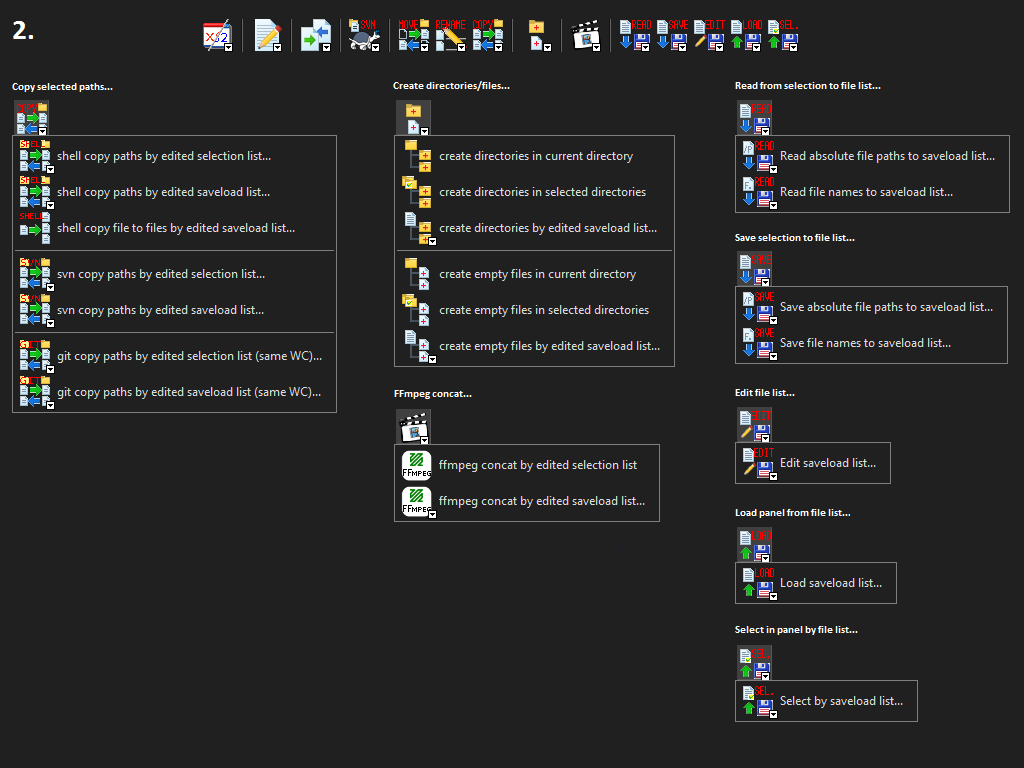
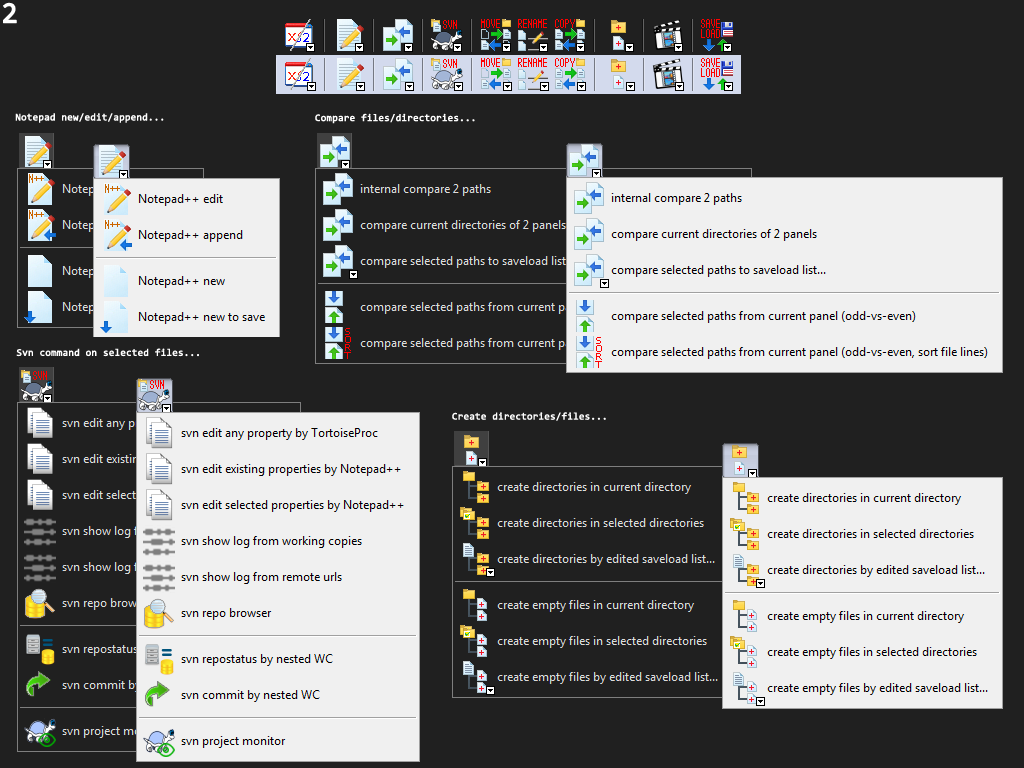
2021.02.21: * changed: docs/screenshots: reworked sketchups, cleanup, readme update
git-svn-id: svn+ssh://svn.code.sf.net/p/tacklebar/tacklebar/trunk@195 b6e1d463-c974-416b-a8a8-9e453b4b0c2d

diff --git a/README.md b/README.md
@@ -8,6 +8,9 @@
 
 <img src="https://github.com/andry81/tacklebar/blob/trunk/docs/screenshots/toolbar_menu_sketch_1024x768_1.png" alt="toolbar menus 1" width="1024" height="768" />
 <img src="https://github.com/andry81/tacklebar/blob/trunk/docs/screenshots/toolbar_menu_sketch_1024x768_2.png" alt="toolbar menus 2" width="1024" height="768" />
+<img src="https://github.com/andry81/tacklebar/blob/trunk/docs/screenshots/toolbar_menu_sketch_1024x768_3.png" alt="toolbar menus 3" width="1024" height="768" />
+<img src="https://github.com/andry81/tacklebar/blob/trunk/docs/screenshots/toolbar_menu_sketch_1024x768_4.png" alt="toolbar menus 4" width="1024" height="768" />
+<img src="https://github.com/andry81/tacklebar/blob/trunk/docs/screenshots/toolbar_menu_sketch_1024x768_5.png" alt="toolbar menus 5" width="1024" height="768" />
 
 ## Copyright and License<a name="copyright-and-license"></a>
 
